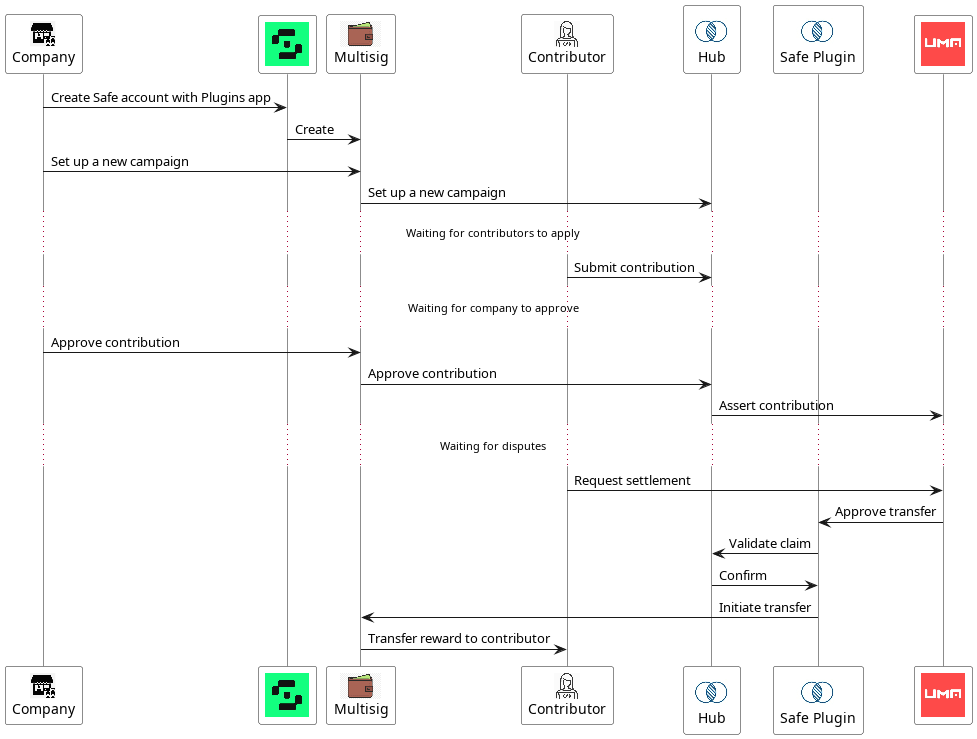
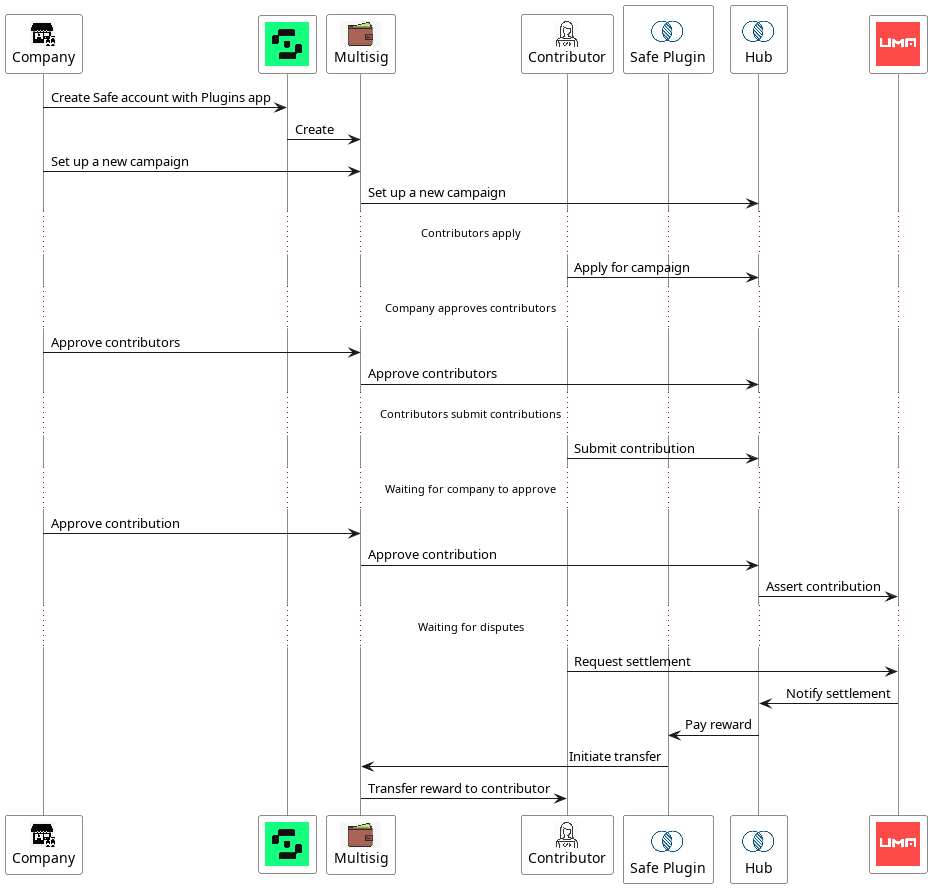
Update readme

diff --git a/README.md b/README.md
@@ -1,4 +1,4 @@
-<img src="./ethglobal.svg" alt="ethglobal logo" height=100 />
+<img src="./ethgLobal.svg" alt="ethglobal logo" height=100 />
 
 # <img src="./logo.jpg" alt="Covariance Logo" height=50 style="vertical-align:bottom;"/> Covariance ETHOnline 2023
 
@@ -7,9 +7,36 @@ Traditional SaaS companies build their B2B or B2C GTM based of their own in hous
 
 In the age of community-first growth - Covariance is helping companies achieve their goals by empowering a network of highly vetted and skilled web3 contributors to assist and get rewarded for the value created.
 
-## 📝 Overview
+## 📝 Protocol Overview
 
-TBD
+<a href="./blob/main/user-flow.jpg">
+<img src="./user-flow.png" alt="Smart contracts architecture diagram" height=400 />
+</a>
+
+Companies who want to solicit experts for one-time contributions need to set up
+a company Safe account that will hold the funds to finance these contributions.
+The Safe account needs to approve the "Plugins" module and enable the Covariance
+plugin using the Plugins demo app.
+
+Plugins module:
+https://app.safe.global/share/safe-app?appUrl=https%3A%2F%2F5afe.github.io%2Fsafe-core-protocol-demo&chain=gor
+
+Once the Safe account is set up, the company can create a "Campaign". The
+campaign lists all the available challenges and their reward.
+
+Once a campaign is open, contributors can apply to participate. The company
+approves the participants they'd like to participate and starts the campaign.
+Contributors submit their contributions and wait for approvals.
+
+The company goes over every contribution and approves the ones that complied
+with the requirements. Once it's approved, an assertion is made on the UMA
+Optimistic oracle.
+
+If no one disputes the assertion on the Optimistic Oracle, it is considered
+approved, and the contributor can "settle" the claim. As part of the settlement,
+the Optimistic Oracle invokes the Covariance Safe Plugin which in turn transfers
+the reward from the company's Safe account to the contributor.
+
 
 ## 📦 Setup
 
@@ -17,15 +44,52 @@ TBD
 
 #### Architecture
 
-<img src="./contracts/architecture.png" alt="Smart contracts architecture diagram" height=500 />
+<a href="./blob/main/contracts/architecture.png">
+<img src="./contracts/architecture.png" alt="Smart contracts architecture diagram" height=600 />
+</a>
 
 #### Config
-Add a `contracts/.env` file and set the `GOERLI_RPC` to your RPC url.
+Add a `contracts/.env` file and set the following vars:
+```env
+GOERLI_RPC=[rpc url]
+DEPLOYER=[address for Cast wallet]
+ETH_KEYSTORE_ACCOUNT=[name of Cast wallet]
+ETHERSCAN_API_KEY=[Etherscan API key]
+```
+
+For running tests you only need the `GOERLI_RPC` config.
+
+#### Running tests
+This project is using Foundry. To run the tests, we use the `forge` command:
+```console
+$ forge test -vv
+```
+
+#### Deploying contracts
+To deploy contracts you must first create a Cast wallet:
+```console
+$ cast wallet new ~/.foundry/keystores
+```
+
+Copy the address of the new wallet and set it in the `DEPLOYER` environment
+variable.
+
+Rename the wallet file to something nicer:
+```console
+$ mv ~/.foundry/keystores/0123-4567-89ab-cdef ~/.foundry/keystores/covariance 
+```
+
+Then save the wallet name in the `.env` file, e.g.
+`ETH_KEYSTORE_ACCOUNT=covariance`.
+
+Now you can deploy the contracts using the deployment script (make sure to fund
+the wallet with goETH first):
+```console
+$ forge script --broadcast CovarianceHubScript
+```
+
+It's recommended to perform a dry-run first (omit the `--broadcast` arg).
 
 ### Frontend
-
-TBD
-
-## ❓ How To
 
 TBD
